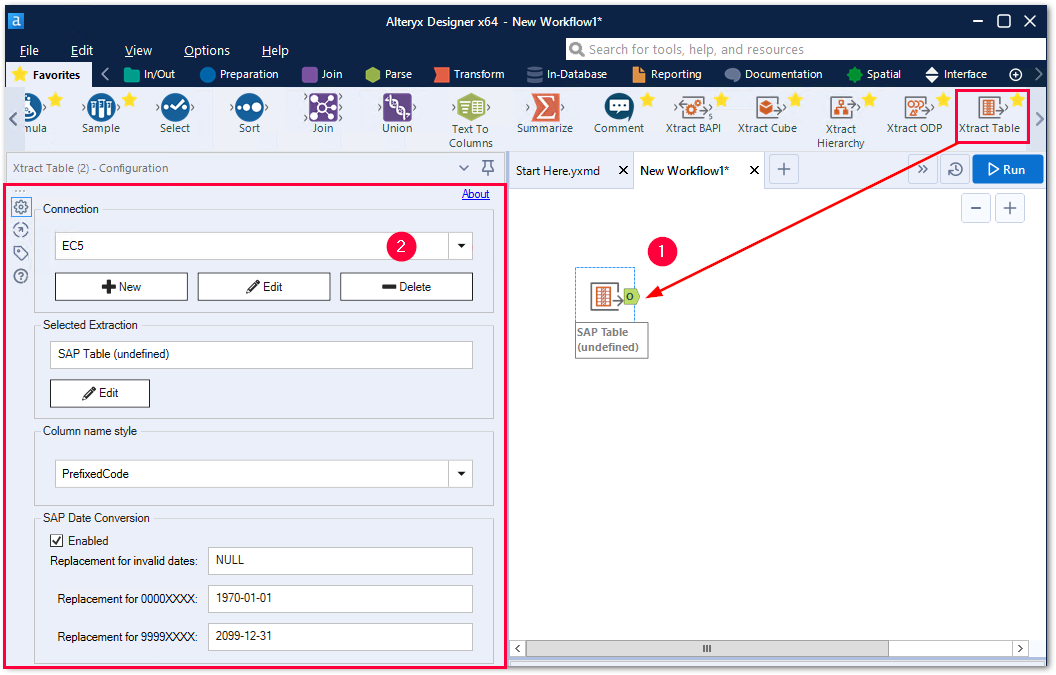
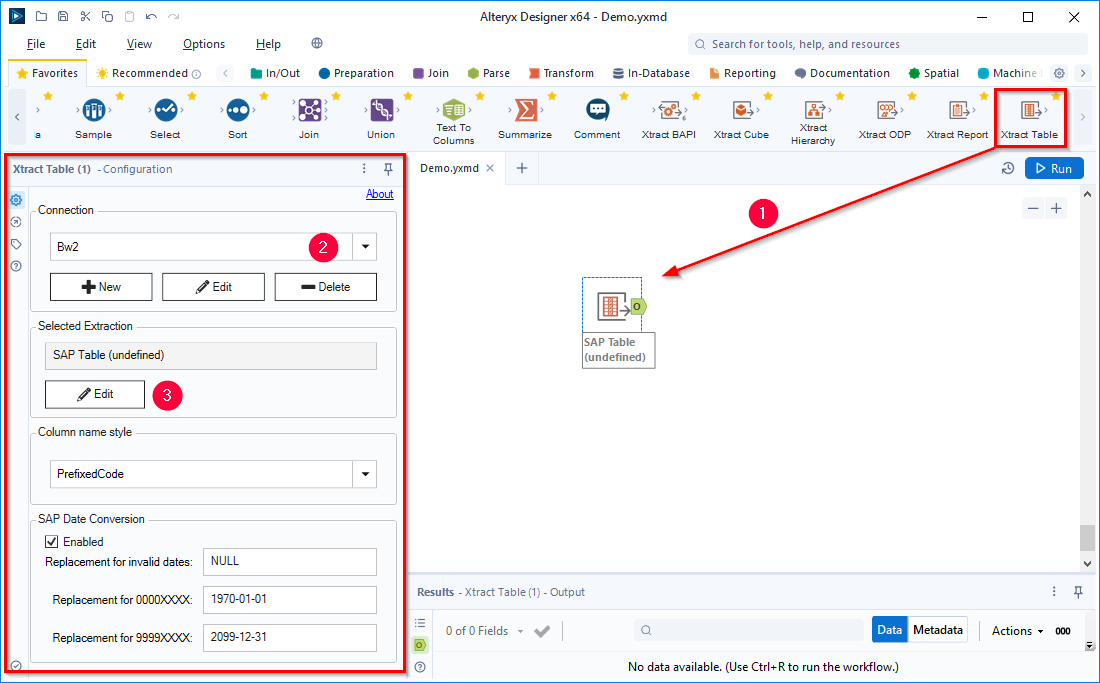
XfA screenshot update

Changed region(s): [[0.0, 0.0, 1.0, 1.0], [0.5312, 0.28, 0.8125, 0.56]]

diff --git a/_includes/_content/de/alteryx-component-intro.md b/_includes/_content/de/alteryx-component-intro.md
@@ -1,7 +1,7 @@
 
 1. Ziehen Sie die Xtract-Komponente per drag & drop in Ihren Alteryx-Workflow (1).
 2. Wählen Sie eine SAP-Verbindung (2).<br>
-![New](/img/content/xfa/xfa_create_table_extraction_01.png){:class="img-responsive"}
-3. Navigieren Sie zur gewählten Extraktion und klicken Sie auf **[Edit]** ( ![edit-icon](/img/content/icons/designer/edit.png){:class="img-responsive" style="display:inline"} Symbol). Das Hauptfenster der Komponente öffnet sich.
+{% if page.childidentifier == "table" %} ![New](/img/content/xfa/xfa_create_table_extraction_01.png){:class="img-responsive"} {% elsif page.childidentifier == "reports" %} ![New](/img/content/xfa/xfa_create_report_extraction_01.png){:class="img-responsive"} {% elsif page.childidentifier == "odp" %} ![New](/img/content/xfa/xfa_create_odp_extraction_01.png){:class="img-responsive"} {% elsif page.childidentifier == "bw-hierarchien" %} ![New](/img/content/xfa/xfa_create_hierarchy_extraction_01.png){:class="img-responsive"} {% elsif page.childidentifier == "bw-cube" %} ![New](/img/content/xfa/xfa_create_cube_extraction_01.png){:class="img-responsive"} {% elsif page.childidentifier == "bapis-und-funktionsbausteine" %} ![New](/img/content/xfa/xfa_create_bapi_extraction_01.png){:class="img-responsive"}{% endif %}
+3. Klicken Sie auf **[Edit]** (3), um das Hauptfenster der Komponente zu öffnen.
 
 Die meisten Funktionen der Komponente sind über das Hauptfenster der Komponente verfügbar.

diff --git a/_includes/_content/en/alteryx-component-intro.md b/_includes/_content/en/alteryx-component-intro.md
@@ -1,7 +1,8 @@
 
 1. Drag & drop the Xtract Cube component to your Alteryx workflow (1).
 2. Select an SAP connection (2).<br>
-![New](/img/content/xfa/xfa_create_table_extraction_01.png){:class="img-responsive"}
-3. Navigate to the section *Selected Extraction* and click **[Edit]** ( ![edit-icon](/img/content/icons/designer/edit.png){:class="img-responsive" style="display:inline"} icon). The main window of the component opens.
+{% if page.childidentifier == "table" %} ![New](/img/content/xfa/xfa_create_table_extraction_01.png){:class="img-responsive"} {% elsif page.childidentifier == "reports" %} ![New](/img/content/xfa/xfa_create_report_extraction_01.png){:class="img-responsive"} {% elsif page.childidentifier == "odp" %} ![New](/img/content/xfa/xfa_create_odp_extraction_01.png){:class="img-responsive"} {% elsif page.childidentifier == "bwhierarchy" %} ![New](/img/content/xfa/xfa_create_hierarchy_extraction_01.png){:class="img-responsive"} {% elsif page.childidentifier == "bw-cube" %} ![New](/img/content/xfa/xfa_create_cube_extraction_01.png){:class="img-responsive"} {% elsif page.childidentifier == "bapi" %} ![New](/img/content/xfa/xfa_create_bapi_extraction_01.png){:class="img-responsive"}{% endif %}
+3. Click **[Edit]** (3) to open the main window of the component.
 
 The majority of the functions of the component can be accessed using the main window.
+

diff --git a/content/_de/xtract-for-alteryx/table.md b/content/_de/xtract-for-alteryx/table.md
@@ -34,16 +34,12 @@ Eine einfachere Option für die inkrementelle Datenextraktion bietet die ODP-Kom
 
 {% include _content/de/table/supported-objects.md %}
 
-### Table verwenden
+### Xtract Table verwenden
 
 {% include _content/de/alteryx-component-intro.md %}
 
 {: .box-tip }
 **Tipp:** Grundlagen zum Produkt sind im Abschnitt [Erste Schritte mit Xtract for Alteryx](./erste-schritte) beschrieben.
-
-### Funktionsübersicht
-Die folgenden Abschnitte geben einen Überblick über die Funktionen, auf die über das Hauptkomponentenfenster zugegriffen werden kann.
-![Table Extractor](/img/content/xfa/xfa-table-extractor.png){:class="img-responsive"}
 
 Weitere Informationen zum Arbeiten mit der Table Komponente finden Sie in den folgenden Unterabschnitten.
 

diff --git a/content/_en/xtract-for-alteryx/table.md b/content/_en/xtract-for-alteryx/table.md
@@ -42,11 +42,6 @@ The ODP component is a more convenient option for incremental extraction e.g., u
 {: .box-tip }
 **Tip:** To get information on the basics of Xtract for Alteryx, refer to [Getting Started with Xtract for Alteryx](./getting-started).
 
-
-### Functions overview
-The following sections give an overview over the functions that can be accessed over the main component window.
-![Table Extractor](/img/content/xfa/xfa-table-extractor.png){:class="img-responsive"}
-
 More information on working with the Xtract Table component is provided in the following sections.
 
 ---
